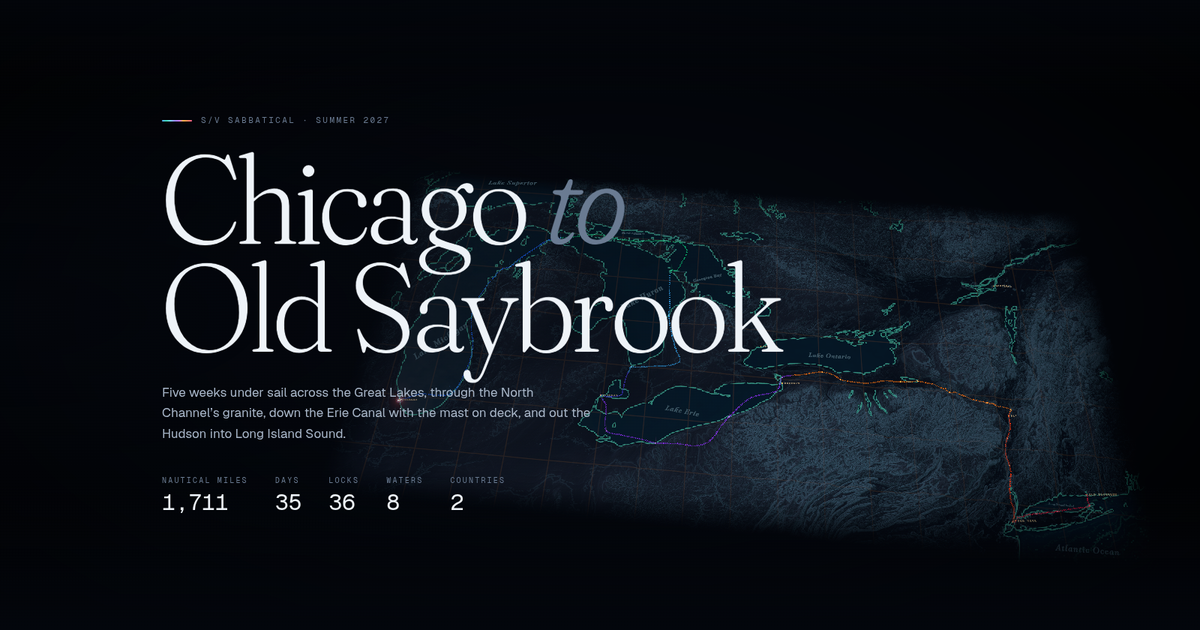
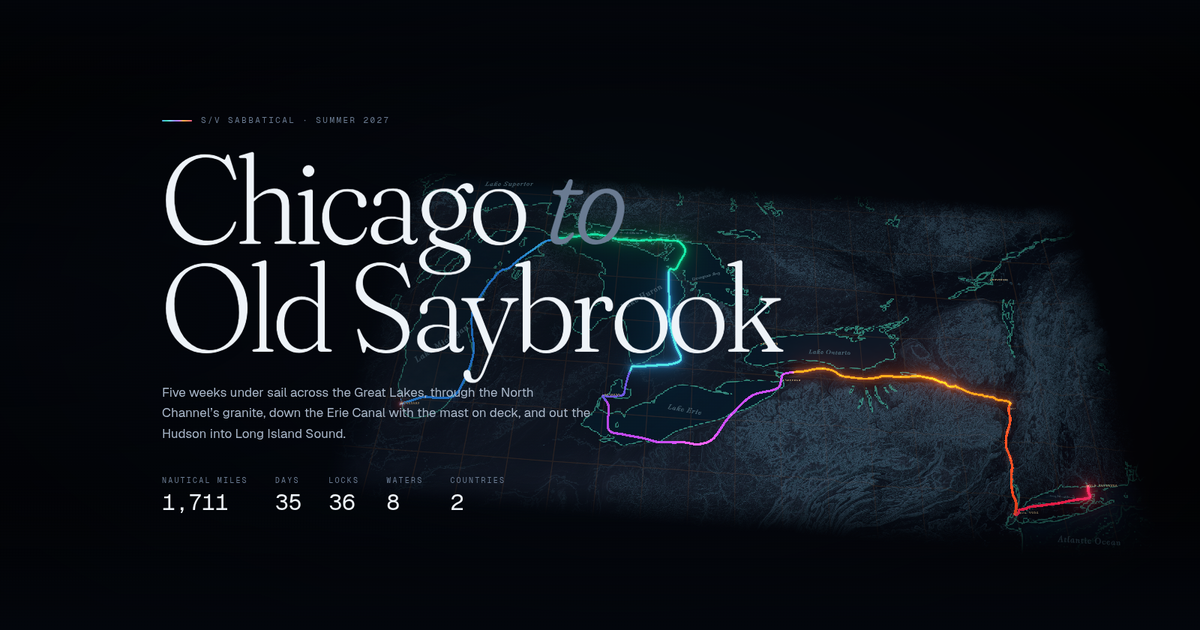
Hero: the whole route draws itself across the map on load
The hero preview lights the full spectrum route in ~4.5 s after the terrain
sweep, then hands the line back to the boat's real progress as you scroll.
OG image re-rendered from it.

Claude-Session: https://claude.ai/code/session_01Y2JF88r82HFvCS8XZuoEwG

diff --git a/components/home/VoyageStory.tsx b/components/home/VoyageStory.tsx
@@ -31,7 +31,7 @@ function lerpArr(arr: number[], d: number) {
 /** Map overall scroll progress → story state + which chapter is on stage. */
 function choreograph(p: number, chapters: Chapter[], lastDay: number) {
   if (p < DIVE_END) {
-    return { day: 0, overview: 1 - sstep(HERO_END * 0.6, DIVE_END, p), pan: -2.9 * (1 - sstep(0, HERO_END, p)), zoom: 1 + 0.32 * (1 - sstep(0, HERO_END, p)), chapter: p < HERO_END ? -1 : 0, phase: "hero" as const };
+    return { day: 0, overview: 1 - sstep(HERO_END * 0.6, DIVE_END, p), pan: -2.9 * (1 - sstep(0, HERO_END, p)), zoom: 1 + 0.32 * (1 - sstep(0, HERO_END, p)), preview: 1 - sstep(HERO_END * 0.4, DIVE_END, p), chapter: p < HERO_END ? -1 : 0, phase: "hero" as const };
   }
   if (p < SAIL_END) {
     const t = (p - DIVE_END) / (SAIL_END - DIVE_END);
@@ -44,9 +44,9 @@ function choreograph(p: number, chapters: Chapter[], lastDay: number) {
     const day = c.dayFrom + (c.dayTo - c.dayFrom) * travel;
     // the camera takes a breath upward as each new water opens up
     const lift = 0.2 * (1 - sstep(0, 0.22, local)) * (ci === 0 ? 0 : 1);
-    return { day, overview: 0.04 + lift, pan: 0, zoom: 1, chapter: ci, phase: "sail" as const };
+    return { day, overview: 0.04 + lift, pan: 0, zoom: 1, preview: 0, chapter: ci, phase: "sail" as const };
   }
-  return { day: lastDay, overview: sstep(SAIL_END, FINALE_IN, p), pan: -2.9 * sstep(SAIL_END, FINALE_IN, p), zoom: 1 + 0.32 * sstep(SAIL_END, FINALE_IN, p), chapter: chapters.length - 1, phase: "finale" as const };
+  return { day: lastDay, overview: sstep(SAIL_END, FINALE_IN, p), pan: -2.9 * sstep(SAIL_END, FINALE_IN, p), zoom: 1 + 0.32 * sstep(SAIL_END, FINALE_IN, p), preview: 0, chapter: chapters.length - 1, phase: "finale" as const };
 }
 
 const noop = () => () => {};
@@ -60,7 +60,7 @@ function useDaysToDeparture() {
 
 export default function VoyageStory({ data }: { data: StoryData }) {
   const section = useRef<HTMLElement>(null);
-  const story = useRef<StoryState>({ day: 0, overview: 1, pan: -2.9, zoom: 1.32 });
+  const story = useRef<StoryState>({ day: 0, overview: 1, pan: -2.9, zoom: 1.32, preview: 1 });
   const { scrollYProgress } = useScroll({ target: section, offset: ["start start", "end end"] });
   const dayMV = useMotionValue(0);
   const [chapter, setChapter] = useState(-1);
@@ -73,6 +73,7 @@ export default function VoyageStory({ data }: { data: StoryData }) {
     story.current.overview = s.overview;
     story.current.pan = s.pan;
     story.current.zoom = s.zoom;
+    story.current.preview = s.preview;
     dayMV.set(s.day);
     setChapter((c) => (c === s.chapter ? c : s.chapter));
     setPhase((ph) => (ph === s.phase ? ph : s.phase));

diff --git a/components/world/rigs.tsx b/components/world/rigs.tsx
@@ -15,6 +15,8 @@ export interface StoryState {
   pan?: number;
   /** distance multiplier for the overview framing (>1 pulls back) */
   zoom?: number;
+  /** 0..1 weight of the hero "preview" in which the whole route draws itself */
+  preview?: number;
 }
 
 export const PORTRAIT_OVERVIEW = {
@@ -35,14 +37,17 @@ export const OVERVIEW = {
 // jitter never reaches the lens. Also publishes route progress for the line,
 // boat and beacons through shared refs.
 export function StoryRig({
-  route, story, progress, activeIndex, mastDown,
+  route, story, progress, lineProgress, activeIndex, mastDown,
 }: {
   route: RouteModel;
   story: React.RefObject<StoryState>;
   progress: React.RefObject<number>;
+  /** how far the route line is lit (boat progress, or the hero preview draw) */
+  lineProgress: React.RefObject<number>;
   activeIndex: React.RefObject<number>;
   mastDown: React.RefObject<number>;
 }) {
+  const introStart = useRef<number | null>(null);
   const { camera, pointer, size } = useThree();
   const look = useRef(OVERVIEW.target.clone());
   const tmp = useMemo(() => ({
@@ -61,6 +66,12 @@ export function StoryRig({
     smoothF.current = first.current ? fTarget : damp(smoothF.current, fTarget, 3.2, dt);
     const f = THREE.MathUtils.clamp(smoothF.current, 0, 1);
     progress.current = f;
+    // Hero preview: after the terrain sweep, the whole route draws itself in
+    // ~4.5 s; scrolling into the story hands the line back to the boat.
+    if (introStart.current == null) introStart.current = clock.elapsedTime;
+    const draw = THREE.MathUtils.smootherstep(clock.elapsedTime - introStart.current, 2.2, 6.7);
+    const pv = s.preview ?? 0;
+    lineProgress.current = THREE.MathUtils.lerp(f, Math.max(f, draw), pv);
 
     // active stop = last stop reached
     let ai = 0;

diff --git a/components/world/VoyageWorld.tsx b/components/world/VoyageWorld.tsx
@@ -60,6 +60,7 @@ function ExploreProgress({ route, day, progress, activeIndex }: { route: RouteMo
 
 function Scene({ terrain, route, props, lowPower }: { terrain: TerrainData; route: RouteModel; props: VoyageWorldProps; lowPower: boolean }) {
   const progress = useRef(0);
+  const lineProgress = useRef(0);
   const activeIndex = useRef(0);
   const mastDown = useRef(0);
   const reveal = useRef(props.mode === "story" ? 0 : 1);
@@ -72,13 +73,13 @@ function Scene({ terrain, route, props, lowPower }: { terrain: TerrainData; rout
       <directionalLight position={[-3, 5, -2]} intensity={1.6} color="#dfe9ff" />
       <TerrainMesh terrain={terrain} segments={segments} reveal={props.mode === "story" ? reveal : undefined} />
       <Labels terrain={terrain} />
-      <RouteLine route={route} progress={progress} />
+      <RouteLine route={route} progress={props.mode === "story" ? lineProgress : progress} />
       <Beacons route={route} activeIndex={activeIndex} onSelect={props.mode === "explore" ? props.onStopSelect : undefined} />
       <Boat route={route} progress={progress} mastDown={mastDown} />
       {props.mode === "story" && props.story ? (
         <>
           <Reveal value={reveal} />
-          <StoryRig route={route} story={props.story} progress={progress} activeIndex={activeIndex} mastDown={mastDown} />
+          <StoryRig route={route} story={props.story} progress={progress} lineProgress={lineProgress} activeIndex={activeIndex} mastDown={mastDown} />
         </>
       ) : (
         <>
